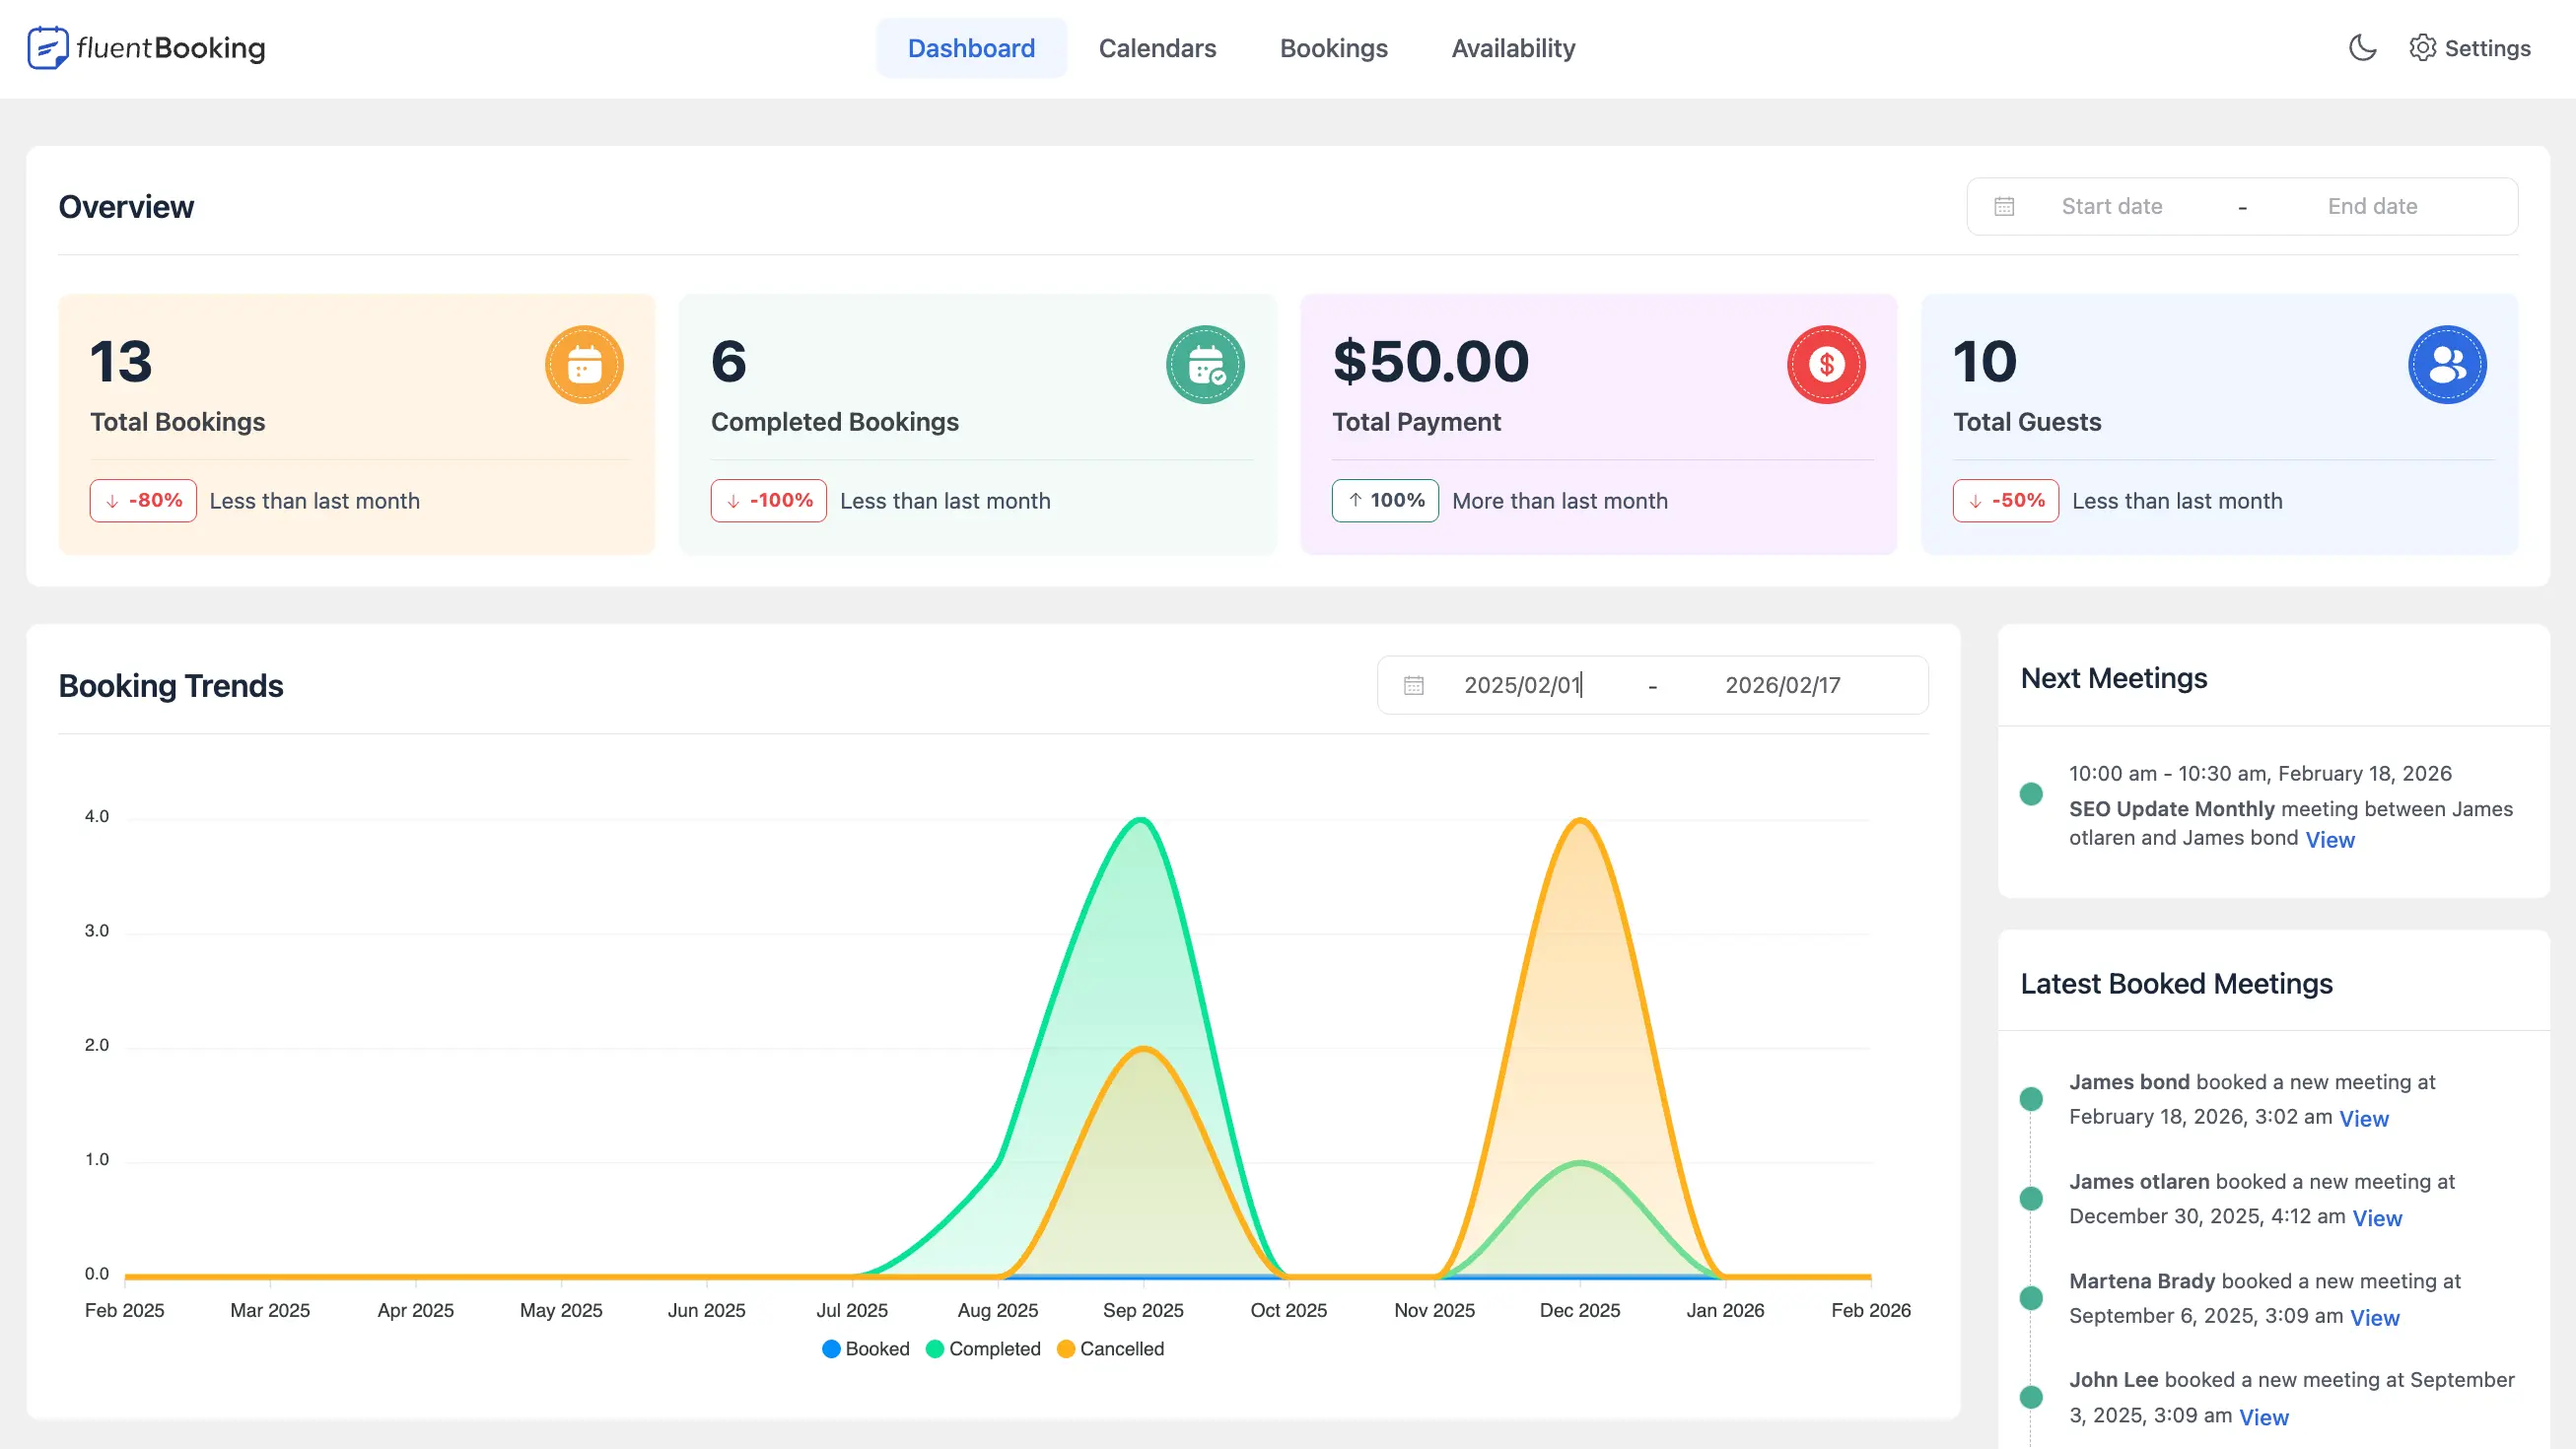
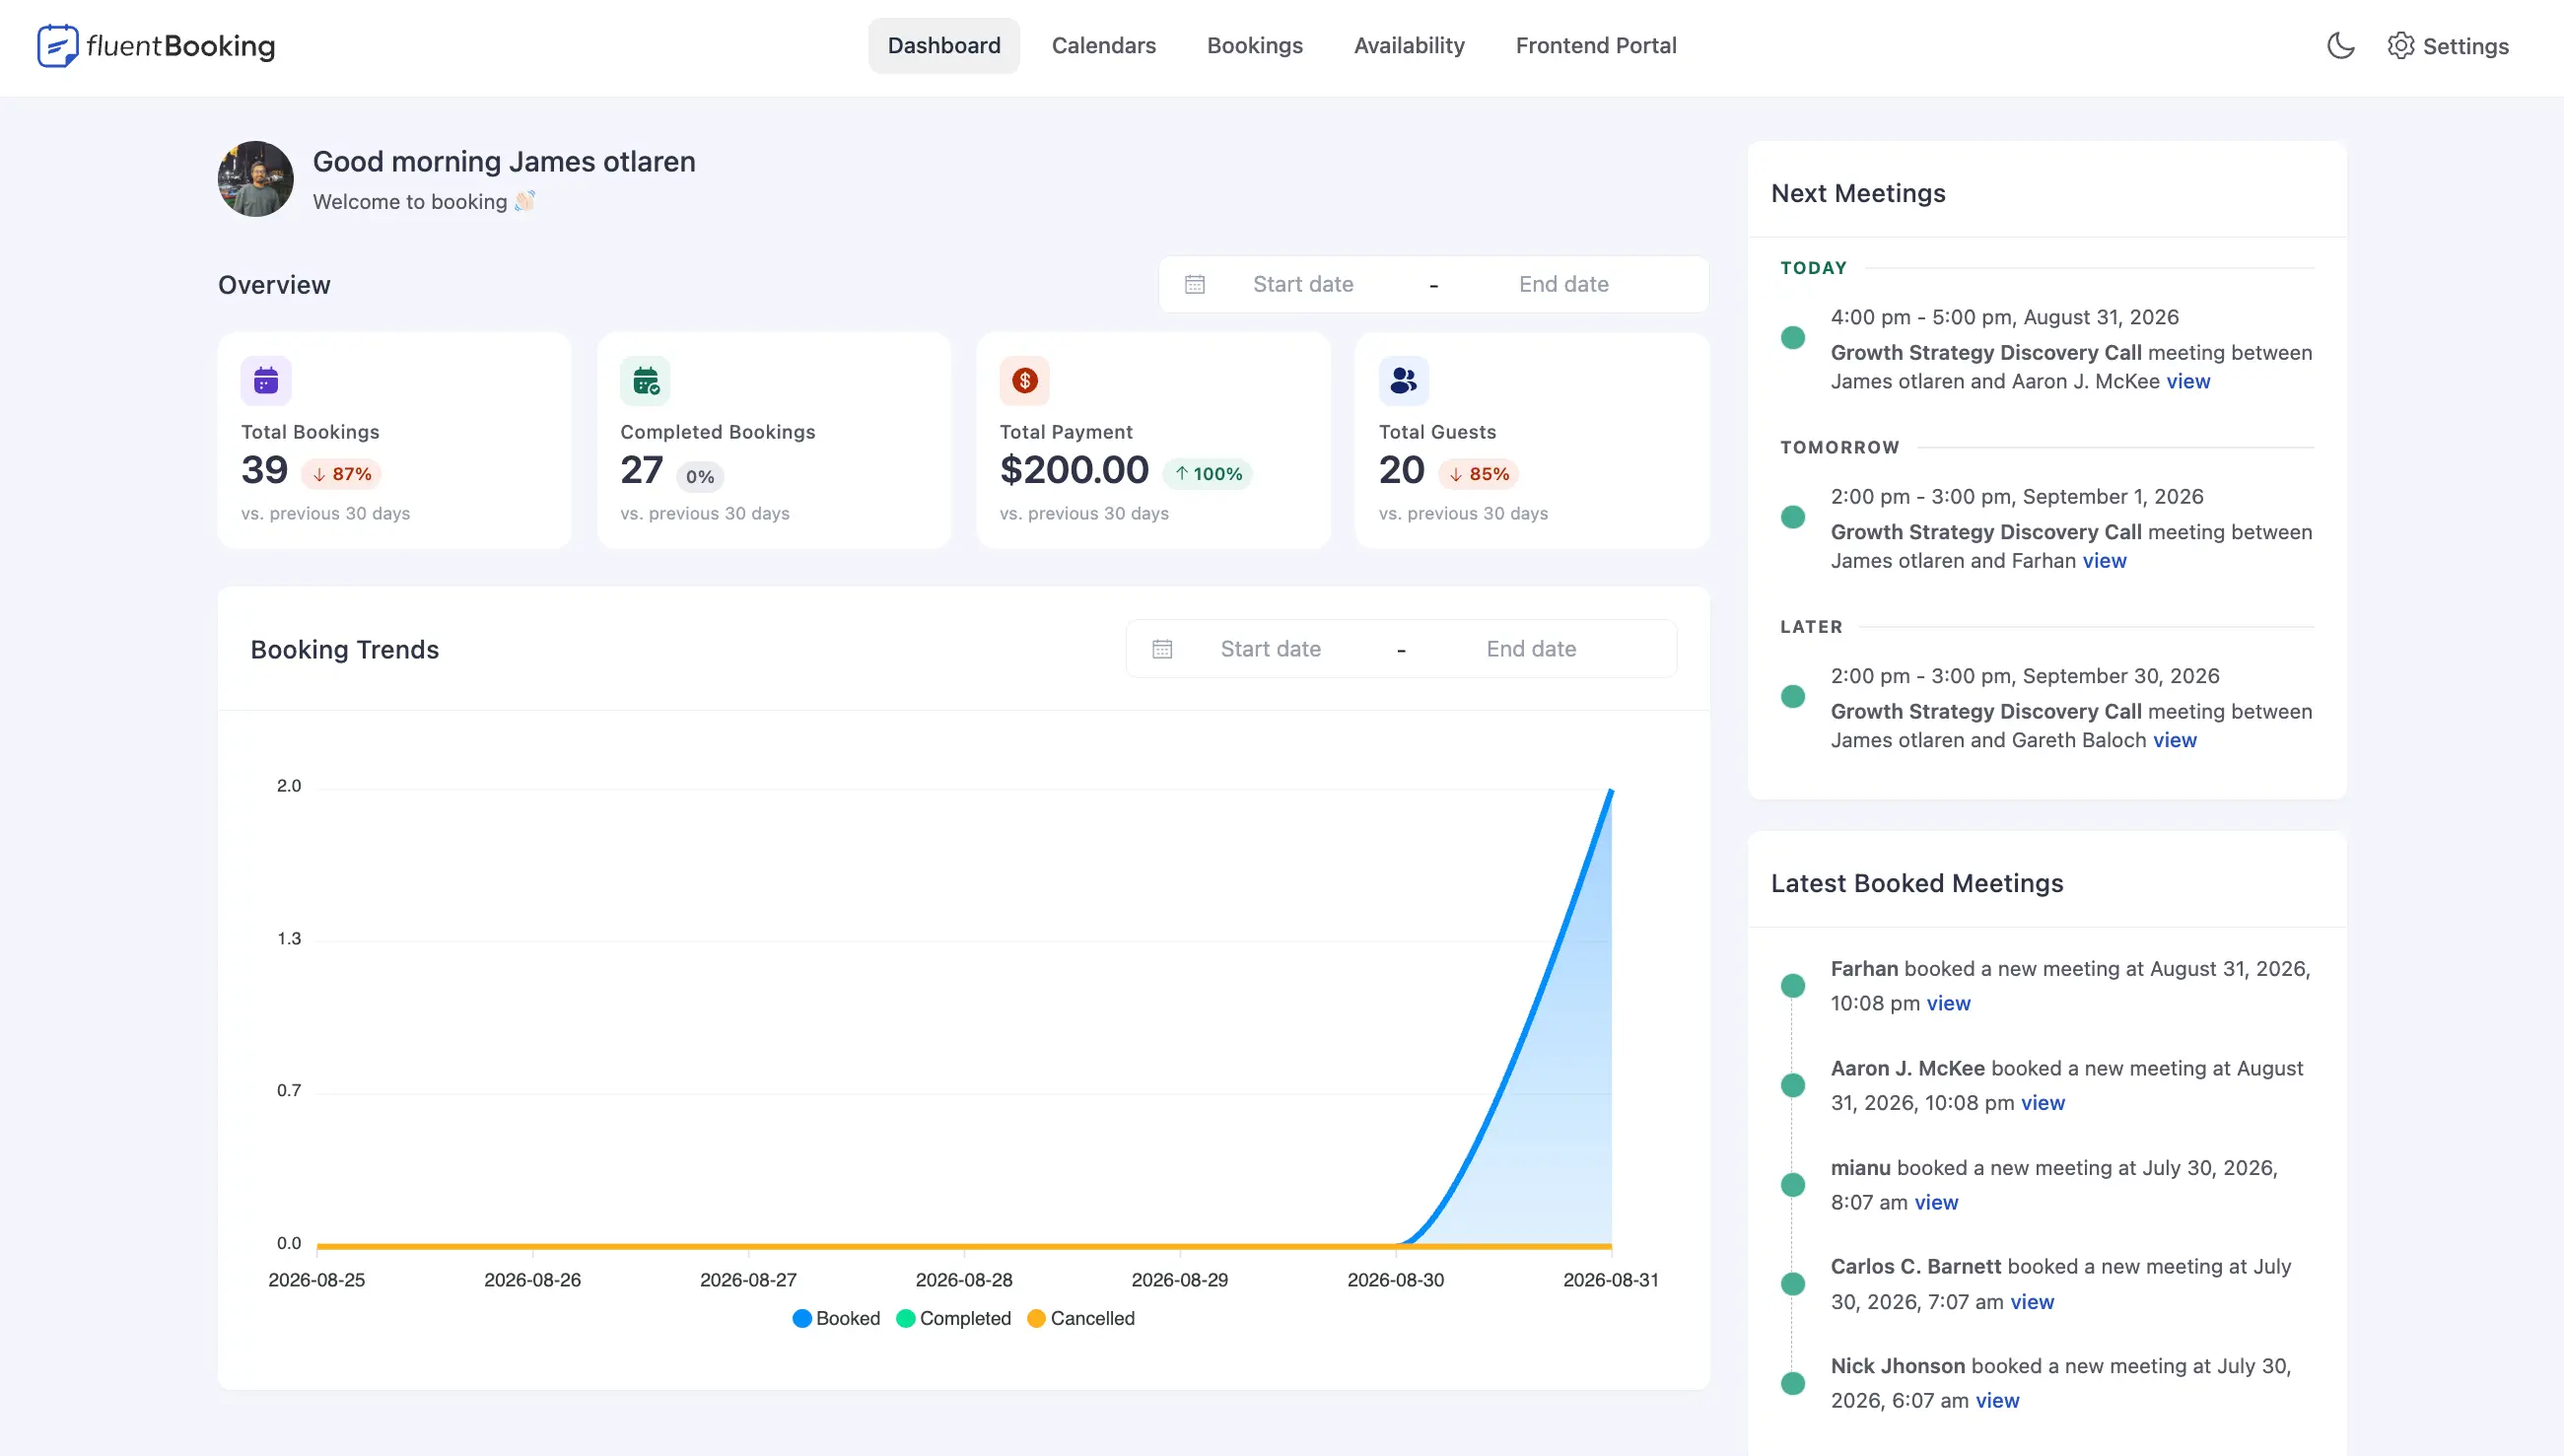
update Dashboard Overview and added new image

diff --git a/docs/getting-started/dashboard-overview.md b/docs/getting-started/dashboard-overview.md
@@ -1,6 +1,6 @@
 ---
 title: Dashboard Overview
-description: Tour the FluentBooking dashboard—booking stats, completed and canceled bookings, guest reports, and meeting activity. Learn where to find key metrics.
+description: Tour the FluentBooking dashboard—booking stats, payments, next meetings, and guest reports. Learn where to find key metrics.
 ---
 
 # Dashboard Overview
@@ -9,7 +9,7 @@ The FluentBooking Dashboard is the first screen you land on after activating the
 
 To open it, log in to WordPress as an administrator and go to **Fluent Booking → Dashboard** from the left admin menu.
 
-The page is divided into four main sections—**Overview**, **Booking Trends**, **Next Meeting**, and **Latest Booked Meetings**—plus a built-in **Dark Mode** toggle. Each section is covered below.
+The page opens with a personalized greeting, followed by four main sections, **Overview**, **Booking Trends**, **Next Meetings**, and **Latest Booked Meetings** plus a built-in **Dark Mode** toggle. Each section is covered below.
 
 ## Overview
 
@@ -18,29 +18,35 @@ The Overview section is the row of four stat tiles at the top of the dashboard. 
 - **Date Range** (top right): Pick the period you want every tile and chart to reflect. The default is the last 30 days.
 - **Total Bookings**: Every booking created in the selected period, regardless of status.
 - **Completed Bookings**: Bookings whose meeting time has already passed without being canceled.
-- **Canceled Bookings**: Bookings that were canceled by the guest or the host.
+- **Total Payment**: Revenue collected from paid bookings in the selected period.
 - **Total Guests**: Unique guests who have booked with you across all time (not filtered by the date range).
 
 ## Booking Trends
 
-Booking Trends is a line chart that plots three series side by side: **Booked**, **Completed**, and **Canceled**. Use it to spot patterns—busy weekdays, drop-off after a campaign, or a spike following a price change.
+The Booking Trends chart shows how your bookings have changed over time. It includes three categories:
 
-The date range selector in the top right of the dashboard controls this chart along with the Overview tiles.
+* **Booked:** Bookings that were made
+* **Completed:** Bookings that were completed
+* **Canceled:** Bookings that were canceled
 
-## Next Meeting
+Use this chart to get a quick view of your booking activity and see when bookings increase or decrease.
 
-Next Meeting shows the soonest upcoming booking from the current host's calendar. The card displays:
+The **date range selector** in the top-right corner of the dashboard controls the Booking Trends chart as well as the Overview tiles.
 
-- Guest name and email
-- Event type and duration
-- Meeting time in your timezone
-- The join link, if a video conferencing integration is connected
+## Next Meetings
 
-Use this card as a quick "what's next?" check without leaving the dashboard.
+Next Meetings lists your upcoming bookings grouped into **Today**, **Tomorrow**, and **Later**, so you can see what's coming up without opening the full Bookings list. Each entry shows:
+
+- The meeting date and time, in your timezone
+- The event type
+- The guest and host names
+- A **view** link to open the full booking details
+
+Use this panel as a quick "what's next?" check without leaving the dashboard.
 
 ## Latest Booked Meetings
 
-Latest Booked Meetings is a chronological list of the most recent bookings. Each row shows the guest, the event type, the host, and the scheduled time. Click any row to open the full booking details.
+Latest Booked Meetings is a chronological list of the most recent bookings, newest first. Each row shows the guest name and when the booking was made, along with a **view** link to open the full booking details.
 
 ![Latest Booked Meetings](/images/getting-started/dashboard-overview/calendars-convertleap-1-1-1.webp)
 
